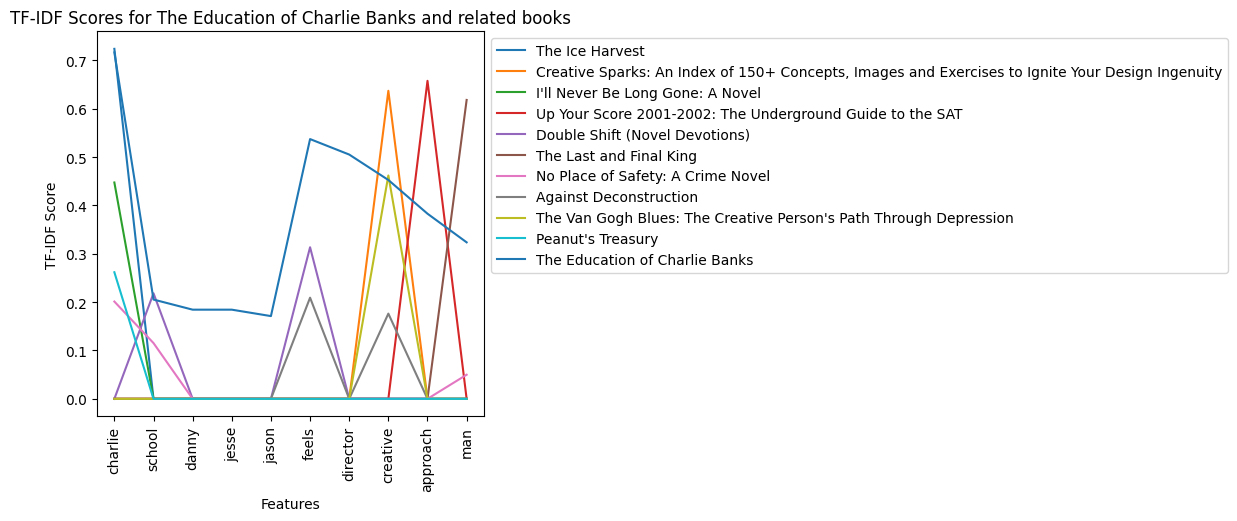
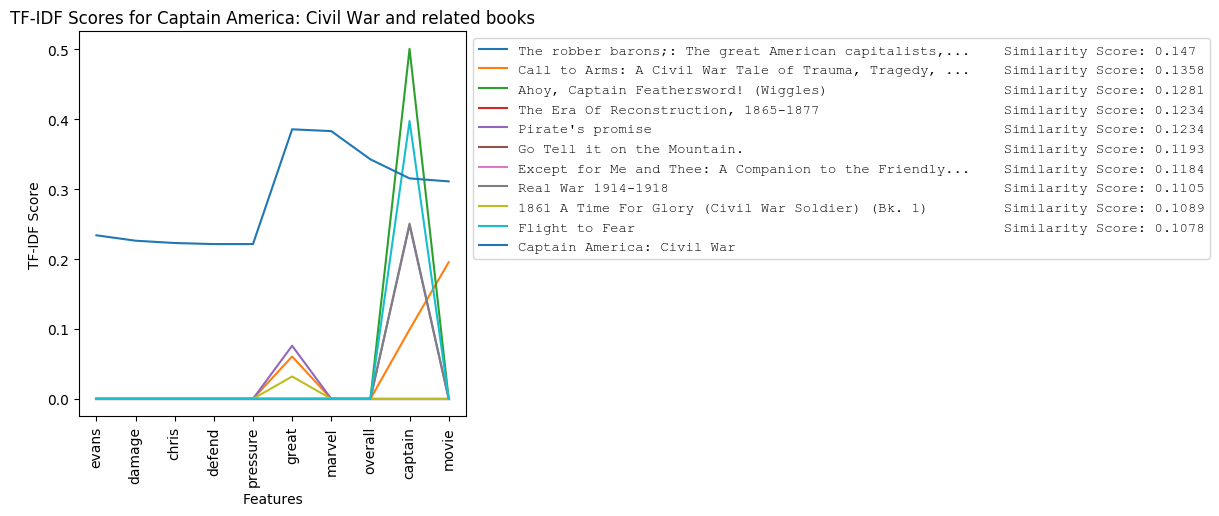
Fixed graph legend formatting

diff --git a/backend/app.py b/backend/app.py
@@ -154,6 +154,10 @@ def cosine_sim_w_sent(movie_title, book_description, movie_reviews, movie_descri
 
     top_indices = combined_sent.argsort()[0][-10:][::-1]
     top_books = [list(book_description.keys())[i] for i in top_indices]
+    top_scores = {}
+    for i, index in enumerate(top_indices):
+        top_scores[top_books[i]] = combined_sent[0][index]
+    print(top_scores)
 
     # Top 5 features between mov descript and book descript
     feature_names = vectorizer.get_feature_names()
@@ -178,7 +182,7 @@ def cosine_sim_w_sent(movie_title, book_description, movie_reviews, movie_descri
         book_scores[book] = [book_vector.toarray()[0][vectorizer.vocabulary_[feat]]
                              for feat, score in features]
 
-    plot(book_scores, movie_title, features)
+    plot(book_scores, movie_title, features, top_scores)
     # # plot movie description and review vector scores
     # ax.plot(features, movie_desc_vector.toarray()[0][vectorizer.vocabulary_[feat]] for feat in movie_desc_features)
     # ax.plot(features, movie_review_vector.toarray()[0][vectorizer.vocabulary_[feat]] for feat in movie_review_features)
@@ -195,25 +199,39 @@ def home():
 
 
 @app.route('/plot')
-def plot(book_scores, movie_title, top_features):
-    fig, ax = plt.subplots(figsize=(5,5)) # Adjust the size of the figure
-    for book, scores in book_scores.items():
-        ax.plot(scores, label=book)
+def plot(book_scores, movie_title, top_features, top_scores):
+    fig, ax = plt.subplots(figsize=(5, 5))  # Adjust the size of the figure
+    max_len = 0
+    for i, tup in enumerate(list(book_scores.items())):
+        book, scores = tup
+        max_len = max(max_len, len(book))
+
+    if max_len > 50:
+        max_len = 53
+    for i, tup in enumerate(list(book_scores.items())):
+        book, scores = tup
+        new_book = book
+        if len(book) > 50:
+            new_book = book[:51] + "..."
+        line = ax.plot(
+            scores, label=f"{new_book}" + " " * (max_len - len(new_book) + 5) + f"Similarity Score: {round(top_scores[book], 4)}")
 
     features = [feat for feat, val in top_features]
     feature_vals = [val for feat, val in top_features]
     ax.set_xticks(range(len(features)))
     ax.set_xticklabels(features, rotation=90)
-    
-    #plot movie
+
+    # plot movie
     ax.plot(feature_vals, label=movie_title)
 
     ax.set_xlabel('Features')
     ax.set_ylabel('TF-IDF Score')
     ax.set_title(f'TF-IDF Scores for {movie_title} and related books')
-    
-    ax.legend(fontsize=10, loc='upper left', bbox_to_anchor=(1, 1))
-    
+
+    legend = ax.legend(fontsize=10, loc='upper left', bbox_to_anchor=(1, 1))
+    for text in legend.get_texts():
+        text.set_fontname("Courier New")
+
     buffer = io.BytesIO()
     plt.savefig(buffer, format='png', bbox_inches='tight')
     buffer.seek(0)
